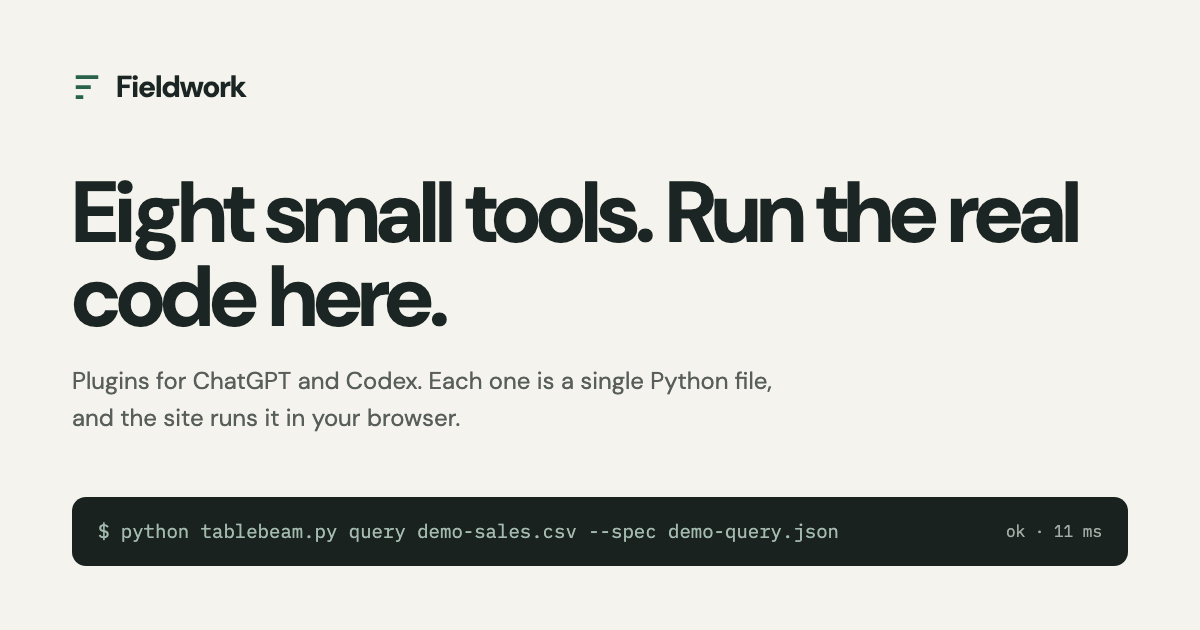
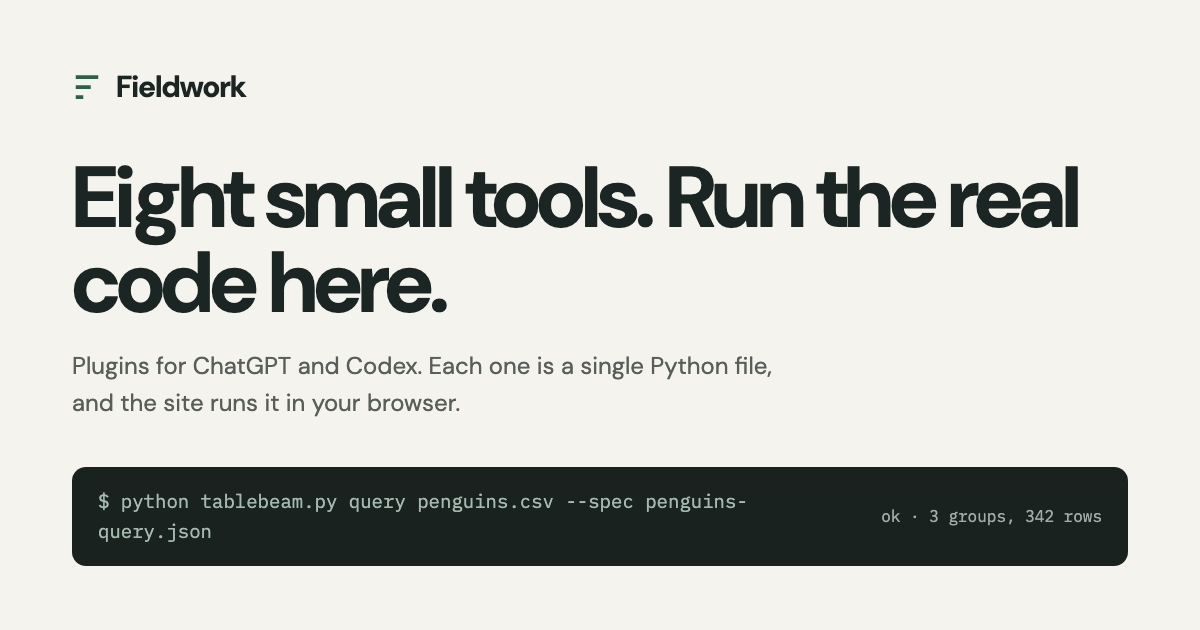
Credit demo inputs on the page and in the README; refresh screenshots
Each panel names its input, source and licence. THIRD_PARTY_NOTICES lists
commits and paths. Drop the ZIP download links and release ledger link,
which pointed at releases that do not exist.

Changed region(s): [[0.0617, 0.2413, 0.8942, 0.5429], [0.0617, 0.7238, 0.9558, 0.8746], [0.0617, 0.5429, 0.6475, 0.6937]]

diff --git a/site/style.css b/site/style.css
@@ -221,7 +221,7 @@ h1 { font-size: clamp(34px, 6.4vw, 62px); line-height: 1.02; letter-spacing: -0.
   text-transform: uppercase;
   color: var(--accent-lit);
 }
-.input-credit a { color: var(--accent-lit); }
+.input-credit a { color: var(--accent-lit); text-decoration: underline; text-underline-offset: 3px; }
 .primary-button {
   border: 0;
   border-radius: 100px;

diff --git a/README.md b/README.md
@@ -12,7 +12,8 @@ Eight small plugins for ChatGPT and Codex. Each one wraps a single-file Python C
 inspectable command instead of improvising.
 
 The catalog site is not a set of screenshots. It downloads the same script the plugin
-ships, runs it in Pyodide against sample input, and prints whatever the tool prints.
+ships, runs it in Pyodide on real public data, and prints whatever the tool prints.
+Every input is listed with its source and licence under [Demo inputs](#demo-inputs).
 
 | Plugin | What it does |
 | --- | --- |
@@ -41,17 +42,17 @@ ships, runs it in Pyodide against sample input, and prints whatever the tool pri
 plugins/<name>/
   plugin.json            portable manifest
   .codex-plugin/         Codex manifest
-  skills/<name>/         SKILL.md, scripts/, synthetic examples in assets/
+  skills/<name>/         SKILL.md, scripts/, and assets/ where a tool needs them
 scripts/                 release tooling and the demo runner
 tests/                   unit tests
-samples/                 recorded inputs the browser demos cannot produce
+samples/                 the real inputs the catalog demos run on
 site/                    catalog site; site/run holds the Pyodide harness
 docs/                    README screenshot
 ```
 
 ## In the browser
 
-Each plugin in `catalog.json` carries a `demo` block: the sample inputs to write, the
+Each plugin in `catalog.json` carries a `demo` block: the input files and their credit, the
 exact argv to run, and which values from the result to show. `site/run/worker.js` boots
 Pyodide in a module worker, `site/run/harness.py` compiles the tool and executes it as
 `__main__`, and `scripts/run_demos.py` runs the same steps with a local interpreter so CI
@@ -64,13 +65,30 @@ visibly rather than faking a result:
   back to an exclusive create plus a byte copy. That does not share an inode, so Safe
   Tidy's `apply` correctly refuses to run there and the demo stops at the plan.
 - **Sockets.** ShipProof's HTTP request goes through a blocking `XMLHttpRequest`. The
-  URL, the bytes and the comparison are real: it fetches a file this site actually
-  serves and hashes it against the copy committed here.
+  URL, the bytes and the comparison are real: it fetches `pyodide.mjs` from jsDelivr and
+  hashes it against the copy in the `pyodide@314.0.7` npm package.
 - **FFmpeg.** Fit to Upload replays recorded output from real `ffprobe` and `ffmpeg` on
   the committed clip, captured by `scripts/make_samples.py`. The byte budget is
   calculated live from that metadata and the clip's real size on disk.
 
 Everything else, including CAD Rescue's `ezdxf` parsing, runs unmodified.
+
+## Demo inputs
+
+| Plugin | Input | Source and licence |
+| --- | --- | --- |
+| Minecraft Performance Lab | Capture `mmc-r12-112954-0`: Minecraft 26.3, a 21-second scripted flight, 10,569 frame intervals | The author's [minecraft-apple-silicon-framework](https://github.com/fortunexbt/minecraft-apple-silicon-framework), MIT. Its harness writes `route.csv`, not the `route.json` Frame Lab ranks on, so the tool rejects it as a ranking input and still measures it. |
+| Fit to Upload | 2:00 to 2:05 of Big Buck Bunny, 320x180, stream copy | (c) Blender Foundation, [CC BY 3.0](https://peach.blender.org/about/). FFmpeg output is a real recording. |
+| Tablebeam | `penguins.csv`, 344 rows | [Palmer Penguins](https://github.com/allisonhorst/palmerpenguins), Horst, Hill and Gorman, CC0 |
+| ShipProof | `pyodide.mjs` from `pyodide@314.0.7` on npm, checked against jsDelivr | [Pyodide](https://github.com/pyodide/pyodide), MPL-2.0 |
+| Safe Tidy | The 12 files of capture session `mmc-r12-112954` | Same repository as the Frame Lab capture, MIT |
+| CAD Rescue | `usa.dxf`, 59 polylines | [ezdxf examples](https://github.com/mozman/ezdxf/tree/master/examples/addons/drawing/data), MIT |
+| CI Spend Check | All 51 Actions runs of [fortunexbt/barter](https://github.com/fortunexbt/barter/actions), saved 2026-10-23 with `ci_spend_check.py fetch fortunexbt/barter --limit 100 --jobs` | Public GitHub API data, MIT repository |
+| Asset Check | The Fox model, `.gltf` + `.bin` + PNG | [Khronos glTF-Sample-Assets](https://github.com/KhronosGroup/glTF-Sample-Assets/tree/main/Models/Fox): model PixelMannen (CC0), rigging tomkranis (CC BY 4.0), conversion AsoboStudio and scurest (CC BY 4.0) |
+
+Commits and exact paths are in [THIRD_PARTY_NOTICES.md](THIRD_PARTY_NOTICES.md).
+The budgets and the Tablebeam question are the only things chosen for the demo; the
+data is as published.
 
 ## Try it locally
 
@@ -78,10 +96,11 @@ Needs Python 3.11 or later. Each plugin documents its commands in its `SKILL.md`
 for example:
 
 ```sh
-cd plugins/tablebeam/skills/tablebeam
-python3 scripts/tablebeam.py profile assets/demo-sales.csv
+python3 plugins/tablebeam/skills/tablebeam/scripts/tablebeam.py query \
+  samples/tablebeam/penguins.csv --spec samples/tablebeam/penguins-query.json
 
-python3 ../../../frame-lab/skills/frame-lab/scripts/frame_lab.py demo
+python3 plugins/frame-lab/skills/frame-lab/scripts/frame_lab.py inspect \
+  --evidence-dir samples/minecraft-capture --run mmc-r12-112954-0
 ```
 
 CAD Rescue needs `pip install -r plugins/cad-rescue/skills/cad-rescue/requirements.txt`.
@@ -100,15 +119,15 @@ python -m unittest discover -s tests
 python scripts/run_demos.py
 ```
 
-The 81 unit tests cover all eight plugins and the release tooling. Two are skipped unless
+The 80 unit tests cover all eight plugins and the release tooling. Two are skipped unless
 you set `CAD_RESCUE_DWG_FIXTURE` and `CAD_RESCUE_LIBREDWG_RUNTIME`, or
 `FRAME_LAB_RAW_EVIDENCE`; they need a real DWG file, a LibreDWG runtime or Minecraft
 captures. The Fit to Upload tests need `ffmpeg`, and the CAD Rescue preview tests use
 `rsvg-convert`.
 
 `scripts/run_demos.py` parses every manifest, then runs each catalog demo end to end and
-checks that the values the site displays are actually in the result. ShipProof's step is
-served from a local loopback server; Fit to Upload's needs `ffmpeg` and `ffprobe`.
+checks that the values the site displays are actually in the result and that each demo
+credits its input. ShipProof's step fetches from jsDelivr, so it needs network access.
 
 CI runs the same tests on Python 3.11 and 3.13, then builds the eight release ZIPs and
 smoke-tests each one from a clean extraction (`python scripts/release.py build`,
@@ -122,8 +141,9 @@ so the first plugin renders before the first paint.
 
 The site is deployed to https://fieldwork-plugins.vercel.app from `vercel.json`, and the
 Pages workflow publishes the same build to https://fortunexbt.github.io/fieldwork-plugins/
-on each push to `main`. To rebuild the sample clip and the recorded FFmpeg output, run
-`python scripts/make_samples.py`; to rebuild the Open Graph image, `node scripts/make_og.mjs`
+on each push to `main`. To rebuild the clip and the recorded FFmpeg output, unzip
+[BigBuckBunny_320x180.mp4.zip](https://download.blender.org/peach/bigbuckbunny_movies/BigBuckBunny_320x180.mp4.zip)
+and run `python scripts/make_samples.py BigBuckBunny_320x180.mp4`; to rebuild the Open Graph image, `node scripts/make_og.mjs`
 with Playwright installed.
 
 ## Status

diff --git a/THIRD_PARTY_NOTICES.md b/THIRD_PARTY_NOTICES.md
@@ -19,11 +19,41 @@ under GPL-3.0-only. Read the license in each plugin archive before redistributin
 
 The remaining plugins use the Python standard library and, for optional live
 repository operations, separately installed Git or GitHub CLI. The catalog icons
-and synthetic fixtures are original unless an adjacent notice says otherwise.
+and the test fixtures are original unless an adjacent notice says otherwise.
+
+## Demo inputs in `samples/`
+
+The catalog site runs each tool on one of these files. None was edited except where
+noted.
+
+- `tablebeam/penguins.csv`: Palmer Penguins by Allison Horst, Alison Hill and Kristen
+  Gorman, from [allisonhorst/palmerpenguins](https://github.com/allisonhorst/palmerpenguins)
+  (`inst/extdata/penguins.csv`, commit `8957207`). Data collected by Kristen Gorman with
+  Palmer Station LTER. CC0 1.0.
+- `ci-spend-check/barter-runs.json`: the GitHub Actions API record of every workflow run
+  of the public repository [fortunexbt/barter](https://github.com/fortunexbt/barter) (MIT),
+  saved on 2026-10-23 with `ci_spend_check.py fetch fortunexbt/barter --limit 100 --jobs`.
+  It includes the commit metadata the API returns, such as author names and emails.
+- `asset-check/`: the [Fox](https://github.com/KhronosGroup/glTF-Sample-Assets/tree/main/Models/Fox)
+  model from Khronos glTF-Sample-Assets (commit `15cd02d`). Model by PixelMannen, CC0 1.0;
+  rigging and animation by tomkranis, CC BY 4.0; glTF conversion by AsoboStudio and
+  scurest, CC BY 4.0. The upstream `LICENSE.md` is beside it.
+- `cad-rescue/usa.dxf`: from the [ezdxf](https://github.com/mozman/ezdxf) examples
+  (`examples/addons/drawing/data/usa.dxf`, commit `7b20261`), MIT, copyright Manfred
+  Moitzi. The upstream `LICENSE` is beside it.
+- `shipproof/pyodide.mjs`: from the npm package `pyodide@314.0.7`, MPL-2.0. The source
+  form is at [pyodide/pyodide tag 314.0.7](https://github.com/pyodide/pyodide/tree/314.0.7).
+- `fit-to-upload/clip.mp4`: five seconds (2:00 to 2:05) of
+  [Big Buck Bunny](https://peach.blender.org/), (c) 2008 Blender Foundation, CC BY 3.0.
+  Cut from `BigBuckBunny_320x180.mp4` with stream copy by `scripts/make_samples.py`; the
+  frames are not re-encoded. `recorded-binaries.json` is real `ffprobe` and `ffmpeg` output
+  for that clip.
+- `minecraft-capture/`: the twelve files of capture session `mmc-r12-112954` from the
+  author's [minecraft-apple-silicon-framework](https://github.com/fortunexbt/minecraft-apple-silicon-framework)
+  (MIT), recorded on 2026-10-06 with Minecraft 26.3.
 
 The catalog site bundles two typefaces under the SIL Open Font License 1.1:
 [DM Sans](https://fonts.google.com/specimen/DM+Sans) by Colophon Foundry, Jonny Pinhorn
 and Indian Type Foundry, and [IBM Plex Mono](https://github.com/IBM/plex) by IBM. The
 Latin subsets in `site/fonts/` came from Google Fonts unchanged. To run a tool in the
-page the site loads [Pyodide](https://pyodide.org) (MPL-2.0) from jsDelivr at runtime;
-it is not redistributed here.
+page the site loads [Pyodide](https://pyodide.org) (MPL-2.0) from jsDelivr at runtime.
